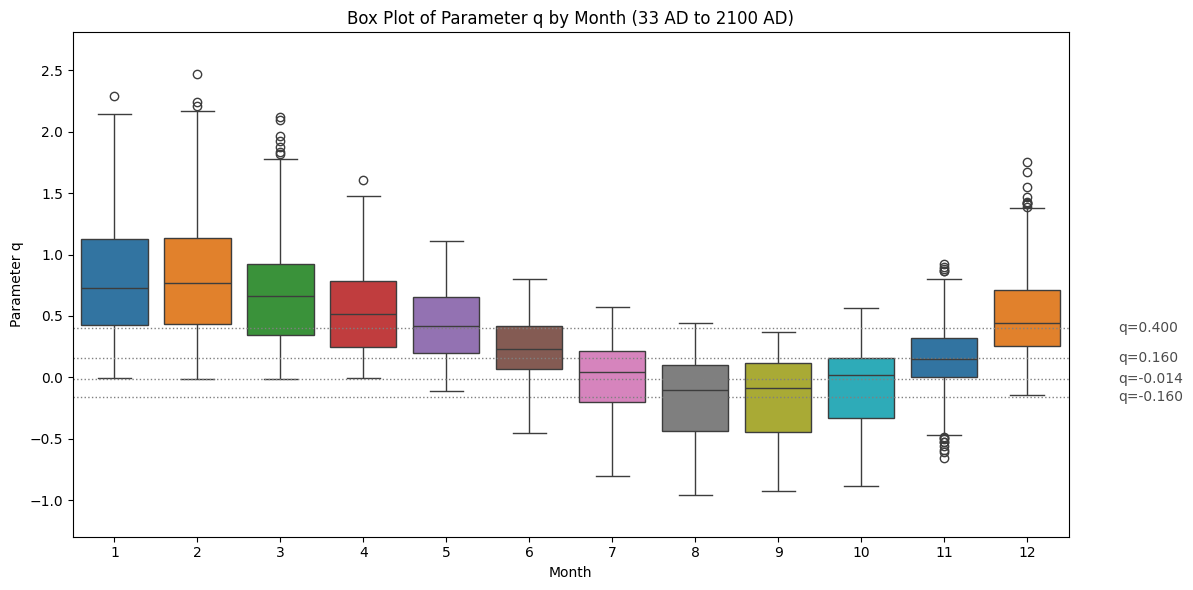
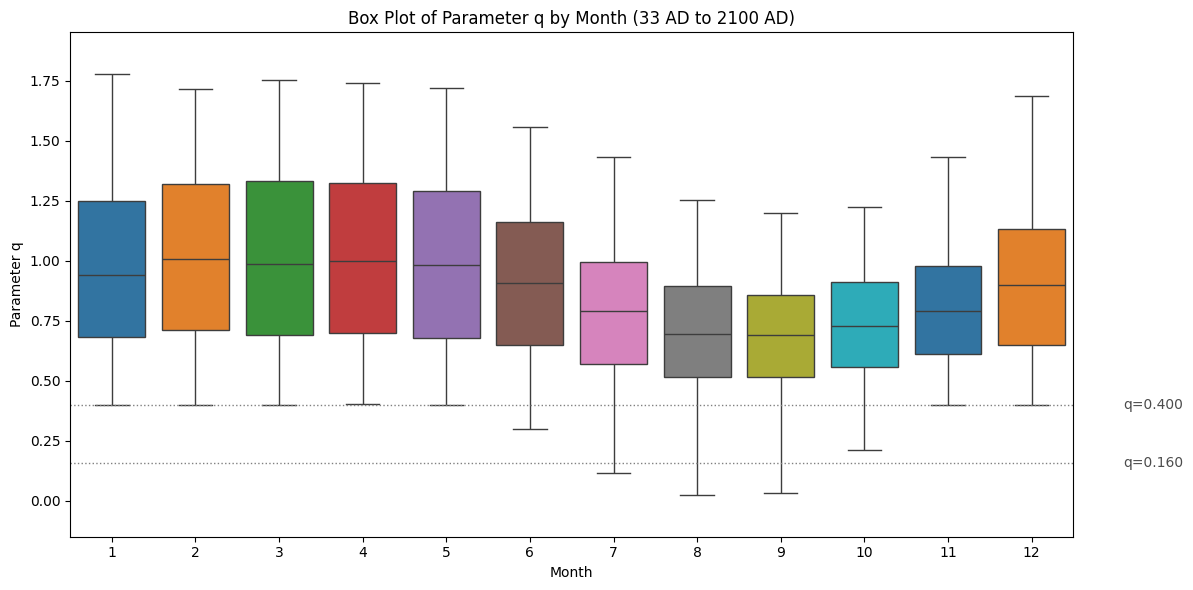
changed_location

diff --git a/dawn_of_time_keeping.html b/dawn_of_time_keeping.html
@@ -247,7 +247,7 @@
       <p>The <a href="https://paulian-calendar.netlify.app/">Paulian Calendar</a> is built using a combination of scriptural guidelines and modern astronomical calculations. This section outlines the methods employed for defining days, weeks, months, and years within the calendar.</p>
 
       <h3>3.1 Data Retrieval</h3>
-      <p>Astronomical data are retrieved from JPL's DE441 ephemeris using the Skyfield library. DE441 provides high-precision positions of solar system bodies over an extended period, from -13,200 to +17,191 years. Calculations are performed for London, UK, in the UTC time zone.</p>
+      <p>Astronomical data are retrieved from JPL's DE441 ephemeris using the Skyfield library. DE441 provides high-precision positions of solar system bodies over an extended period, from -13,200 to +17,191 years. Calculations are performed for Jerusalem, Israel, in the local time zone.</p>
 
       <h3>3.2 Days</h3>
       <p>In accordance with Genesis 1:5, which declares, “And God called the light Day, and the darkness He called Night. And the evening and the morning were the first day,” a Biblical day begins at sunset and concludes at the following sunset. To honor this divine order, sunset timings are calculated daily using the Skyfield library, ensuring precise determinations based on astronomical ephemeris data.</p>
@@ -262,7 +262,7 @@
         <li><strong>Yallop's q Criterion:</strong> This method calculates a parameter q based on the geocentric difference in altitude between the Sun and Moon and the topocentric width of the lunar crescent. Visibility categories are: q ≥ 0.400 (very easily visible), 0.160 ≤ q < 0.400 (easily visible), -0.014 ≤ q < 0.160 (visible under perfect conditions), -0.160 ≤ q < -0.014 (optical aid may be needed), q < -0.160 (not visible).</li>
         <li><strong>Odeh's Criterion:</strong> This uses the topocentric arc of vision and crescent width, based on 737 observations, predicting visibility for naked eye and optical aid, with a Danjon limit of 6.4 degrees.</li>
       </ul>
-      <p>The month begins when the crescent is predicted to be visible from UTC time zone by both criterion. Months are capped to 30 days if the crescent moon is not found and next day is declared as start of the month.</p>
+      <p>The month begins when the crescent is predicted to be visible from Jerusalem local time zone by both criterion. Months are capped to 30 days, and the start of the month is only considered if the 'q' is in very easily visible category, if the crescent moon is not found, next day is declared as start of the month.</p>
 
       <h3>3.5 Years</h3>
       <h4>3.5.1 Biblical Foundations for the New Year</h4>
@@ -585,8 +585,8 @@
   <figcaption style="text-align: center;">Figure 1: Month-on-month q parameter trends (33 AD – 2100 AD)</figcaption>
   </figure><br/>
       
-      <p>The box plot analysis of the parameter "q" across months from 33 AD to 2100 AD reveals notable variation. The early months, particularly 1 and 2, display the widest spread of "q" values, reaching up to 2.5, with extreme high outliers, indicating high variability. The 7th month shows a narrow IQR with a median around 0, suggesting stability and a neutral central tendency with no significant outliers. In contrast, the 8th and 9th months have medians below 0, indicating a consistent negative "q" value, with limited variability and no prominent outliers. Months 9 and 10 exhibit a more consistent range with fewer extreme values compared to the early months.</p>
-      <p>Additionally, the early months (Jan to May) demonstrate a higher probability of visibility compared to the later months (7-9), likely due to the elevated and more variable "q" values. The shift to negative "q" values in months 8 and 9, with the 7th month remaining near 0, suggests that visibility conditions may be more favorable at the beginning of the year, while later months tend to have lower and more stable "q" values, potentially reducing visibility.</p>
+      <p>The box plot analysis of the parameter "q" across months from 33 AD to 2100 AD reveals notable variation. Parameter q peaks in months 1-5 (1.0-1.5), with widest spread. Drops in months 7-9 (0.5-1.0), showing least variation. Month 6 transitions with moderate range. Outliers indicate rare extremes below 0.4 and above 1.5.</p>
+      <p>Additionally, the early months (Jan to May) demonstrate a higher probability of visibility compared to the later months (7-9), likely due to the elevated and more variable "q" values. The shift from very easily visible category of "q" values in months 8 and 9, suggests that visibility conditions may be more favorable at the beginning of the year, while later months tend to have lower and more stable "q" values, potentially reducing visibility.</p>
       <p>Qualitative insights from box plot analysis of crescent visibility indicate variability in observation difficulty. In some months, the crescent moon is challenging to see, as evidenced in:</p>
       <div class="bible-verse">
         And David said unto Jonathan, Behold, tomorrow is the new moon, and I should not fail to sit with the king at meat: but let me go, that I may hide myself in the field unto the third day at evening.<br />
@@ -662,7 +662,7 @@
     <tr>
         <td>2006</td>
         <td>March 29</td>
-        <td>March 31</td>
+        <td>March 30</td>
         <td>March 28</td>
         <td>March 31</td>
         <td>Yes</td>
@@ -686,7 +686,7 @@
     <tr>
         <td>2009</td>
         <td>March 26</td>
-        <td>March 27</td>
+        <td>March 28</td>
         <td>March 26</td>
         <td>March 28</td>
         <td>Yes</td>
@@ -694,7 +694,7 @@
     <tr>
         <td>2010</td>
         <td>April 14</td>
-        <td>April 15</td>
+        <td>April 16</td>
         <td>March 12</td>
         <td>March 18</td>
         <td>Yes</td>
@@ -702,7 +702,7 @@
     <tr>
         <td>2011</td>
         <td>April 3</td>
-        <td>April 4</td>
+        <td>April 5</td>
         <td>March 30</td>
         <td>April 5</td>
         <td>Yes</td>
@@ -710,7 +710,7 @@
     <tr>
         <td>2012</td>
         <td>March 22</td>
-        <td>March 23</td>
+        <td>March 24</td>
         <td>March 22</td>
         <td>March 24</td>
         <td>Yes</td>
@@ -718,7 +718,7 @@
     <tr>
         <td>2013</td>
         <td>April 10</td>
-        <td>April 11</td>
+        <td>April 12</td>
         <td>March 11</td>
         <td>March 14</td>
         <td>Yes</td>
@@ -742,13 +742,13 @@
     <tr>
         <td>2016</td>
         <td>April 7</td>
-        <td>April 8</td>
+        <td>April 9</td>
         <td>March 27</td>
         <td>April 10</td>
         <td>Yes</td>
     </tr>
 </table>
-      <p>However, these Paulian Calendar dates differ from the new moon(first crescent moon) dates listed in Strashny’s study by 1 or 2 days (likely due to timezone difference).</p>
+      <p>However, these Paulian Calendar dates differ from the new moon(first crescent moon) dates listed in Strashny’s study by 1 or 2 days (likely due to local weather conditions or hebrew day mapped to the next day time, since a hebrew day is from evening to evening by Starshy).</p>
       
       <table>
         <caption>Table 4: Metonic Cycle Dates Aligned to March 18–27 over 33 AD to 2100 AD</caption>
@@ -759,7 +759,7 @@
         </thead>
         <tbody>
           <tr>
-            <td>0033-03-18, 0052-03-18, 0071-03-19, 0090-03-19, 0109-03-19, 0128-03-19, 0147-03-20, 0166-03-19, 0185-03-19, 0204-03-20, 0223-03-21, 0242-03-20, 0261-03-20, 0280-03-19, 0299-03-20, 0318-03-21, 0337-03-21, 0356-03-20, 0375-03-21, 0394-03-20, 0413-03-20, 0432-03-20, 0451-03-21, 0470-03-21, 0489-03-20, 0508-03-21, 0527-03-21, 0546-03-21, 0565-03-21, 0584-03-21, 0603-03-23, 0622-03-22, 0641-03-22, 0660-03-21, 0679-03-22, 0698-03-22, 0717-03-23, 0736-03-23, 0755-03-23, 0774-03-22, 0793-03-22, 0812-03-22, 0831-03-23, 0850-03-23, 0869-03-22, 0888-03-22, 0907-03-23, 0926-03-23, 0945-03-23, 0964-03-22, 0983-03-23, 1002-03-24, 1021-03-23, 1040-03-23, 1059-03-24, 1078-03-23, 1097-03-23, 1116-03-24, 1135-03-24, 1154-03-24, 1173-03-24, 1192-03-23, 1211-03-24, 1230-03-24, 1249-03-24, 1268-03-23, 1287-03-24, 1306-03-24, 1325-03-24, 1344-03-24, 1363-03-25, 1382-03-25, 1401-03-25, 1420-03-25, 1439-03-25, 1458-03-25, 1477-03-25, 1496-03-25, 1515-03-27, 1534-03-26, 1553-03-25, 1572-03-25, 1591-03-26, 1610-03-26, 1629-03-26, 1648-03-26, 1667-03-26, 1686-03-25, 1705-03-26, 1724-03-26, 1743-03-27, 1762-03-27, 1781-03-26, 1800-03-26, 1819-03-27, 1838-03-27, 1857-03-27, 1876-03-27, 1895-03-27, 1914-03-28, 1933-03-27, 1952-03-27, 1971-03-28, 1990-03-28, 2009-03-27, 2028-03-27, 2047-03-27, 2066-03-27, 2085-03-27</td>
+            <td>0033-03-18, 0052-03-19, 0071-03-20, 0090-03-19, 0109-03-20, 0128-03-19, 0147-03-19, 0166-03-19, 0185-03-19, 0204-03-20, 0223-03-21, 0242-03-20, 0261-03-20, 0280-03-19, 0299-03-20, 0318-03-21, 0337-03-21, 0356-03-21, 0375-03-21, 0394-03-20, 0413-03-20, 0432-03-20, 0451-03-21, 0470-03-21, 0489-03-21, 0508-03-21, 0527-03-21, 0546-03-21, 0565-03-21, 0584-03-21, 0603-03-23, 0622-03-22, 0641-03-22, 0660-03-21, 0679-03-22, 0698-03-22, 0717-03-23, 0736-03-23, 0755-03-23, 0774-03-22, 0793-03-22, 0812-03-22, 0831-03-23, 0850-03-23, 0869-03-23, 0888-03-22, 0907-03-23, 0926-03-23, 0945-03-23, 0964-03-23, 0983-03-24, 1002-03-24, 1021-03-24, 1040-03-23, 1059-03-24, 1078-03-24, 1097-03-24, 1116-03-24, 1135-03-25, 1154-03-24, 1173-03-24, 1192-03-23, 1211-03-24, 1230-03-25, 1249-03-24, 1268-03-24, 1287-03-24, 1306-03-25, 1325-03-24, 1344-03-24, 1363-03-25, 1382-03-25, 1401-03-26, 1420-03-25, 1439-03-25, 1458-03-25, 1477-03-25, 1496-03-25, 1515-03-27, 1534-03-26, 1553-03-26, 1572-03-25, 1591-03-26, 1610-03-26, 1629-03-26, 1648-03-26, 1667-03-26, 1686-03-25, 1705-03-26, 1724-03-26, 1743-03-27, 1762-03-27, 1781-03-26, 1800-03-27, 1819-03-27, 1838-03-27, 1857-03-27, 1876-03-27, 1895-03-28, 1914-03-28, 1933-03-27, 1952-03-27, 1971-03-28, 1990-03-28, 2009-03-28, 2028-03-27, 2047-03-28, 2066-03-27, 2085-03-27</td>
           </tr>
         </tbody>
       </table>
@@ -811,7 +811,7 @@
           </tr>
         </tbody>
       </table>
-      <p>The calendar’s epoch, set at 33 AD, aligns with the crucifixion of Jesus, reinforcing its Christ-centered purpose. This choice distinguishes it from calendars like Michael Rood’s, which uses the creation as its starting point, or CHC Publications, which adopts a different crucifixion date. The <a href="https://paulian-calendar.netlify.app/">Paulian Calendar</a>’s intercalation rule—adding a 13th month if the 12th ends before March 18— seeks to ensure festivals remain in their appointed seasons, mentioning the drift seen in lunar calendars. This rule, grounded in the equilux and barley ripening, reflects historical practices noted by Josephus and the Talmud, while leveraging modern data for precision.</p>
+      <p>The calendar’s epoch, set at 33 AD, aligns with the crucifixion of Jesus, reinforcing its Christ-centered purpose. This choice distinguishes it from calendars like Michael Rood’s, which uses the creation as its starting point, or CHC Publications, which adopts a different crucifixion date. The <a href="https://paulian-calendar.netlify.app/">Paulian Calendar</a>’s intercalation rule is grounded in the equilux and barley ripening, reflects historical practices noted by Josephus and the Talmud, while leveraging modern data for precision.</p>
       <p>The following table compares the <a href="https://paulian-calendar.netlify.app/">Paulian Calendar</a> with other Biblical and Hebrew calendars, highlighting key differences in methodology and focus:</p>
       <table>
         <caption>Table 6: Comparison of Calendars</caption>
@@ -830,7 +830,7 @@
             <td>Paulian Calendar</td>
             <td>33 AD (Crucifixion)</td>
             <td>New moon crescent (Yallop/Odeh)</td>
-            <td>Barley Aviv, post-equilux (March 18)</td>
+            <td>Barley Aviv, post-equilux</td>
             <td>Barley-based and heavenly signs</td>
             <td>Christ-centered, prophetic timeline (seeks strict constraint on Passover falling after Spring begins and Barley in Aviv based on data)</td>
           </tr>
@@ -876,7 +876,7 @@
           </tr>
         </tbody>
       </table>
-      <p>Limitations include reliance on UTC timezone, for calculations. Future work could incorporate multi-location crescent observations. Additionally, while the 19-year Metonic cycle provides long-term stability, minor drift (1 day per 231 years) suggests expected drift in lunar based calendars. The calendar’s predictive model, based on astronomical ephemerides, could be further refined with real-time observational data or AI-driven predictions.</p>
+      <p>Limitations include reliance on Yallop’s q and Odeh’s for calculations. Future work could incorporate multi-location crescent observations. Additionally, while the 19-year Metonic cycle provides long-term stability, minor drift (1 day per 231 years) suggests expected drift in lunar based calendars. The calendar’s predictive model, based on astronomical ephemerides, could be further refined with real-time observational data or AI-driven predictions.</p>
       <p>The <a href="https://paulian-calendar.netlify.app/">Paulian Calendar</a> not only seeks to serve as a tool for observing Biblical festivals but also invites reflection on God’s prophetic timeline. By anchoring its framework in the crucifixion and resurrection, it encourages believers to look forward to Christ’s return, as prophesied in:</p>
       <div class="bible-verse">
         He will revive us after two days; He will raise us up on the third day, that we may live before Him.<br />
